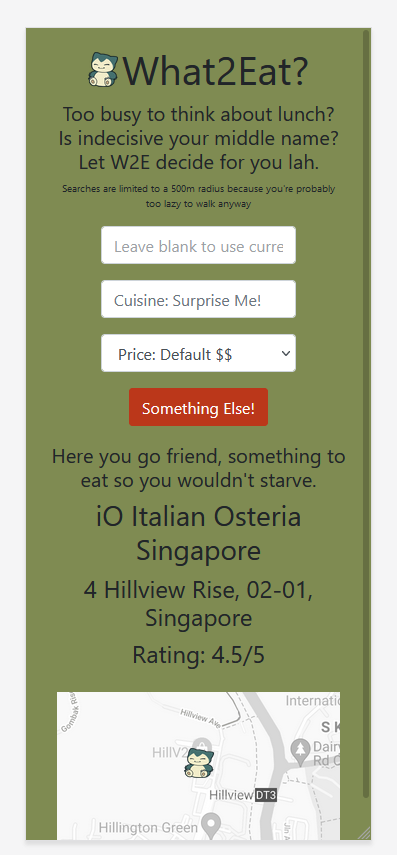
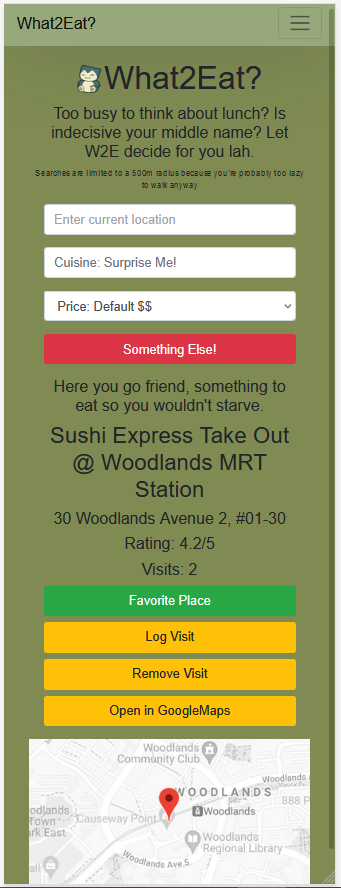
final version

diff --git a/README.md b/README.md
@@ -1,12 +1,3 @@
-Todo:
-- integration with googlemaps api and backend- done
-- create accounts feature
-- option to set a place as favorite
-- option to track number of times place is visited
-
-![Alt text](client/public/project_screenshot.PNG?raw=true "Title")
-
-
 
 # What2Eat?
 
@@ -30,6 +21,7 @@ Prior to this, we spent slightly under a week learning django, whereas we had al
 ### CSS
 Nothing much has changed on this front, still not where I hopped to be at with it. This is made worse by the fact that I do not really have a good eye for design. But I am really hoping to get better. First impressions on a product is everything
 
+
 ## Post Mortem
 # Approach and Process
 - What in my process and approach to this project would I do differently next time?
@@ -37,3 +29,7 @@ I would probably have chose a more complicated project that did not require me t
 
 - What in my process and approach to this project went well that I would repeat next time?
 Sticking to my philosophy of making simple things that work. Any person checking out my portfolio would not bother spending too much time to figure out how each of my apps work or fiddle with it (yes im talking about you). I was quite disheartened when I saw that some of my coursemates were not able to finish what they intended as their products were too complicated for the current knowledge we had
+
+
+# Screenshot
+![Alt text](client/public/project_screenshot.PNG?raw=true "Title")
